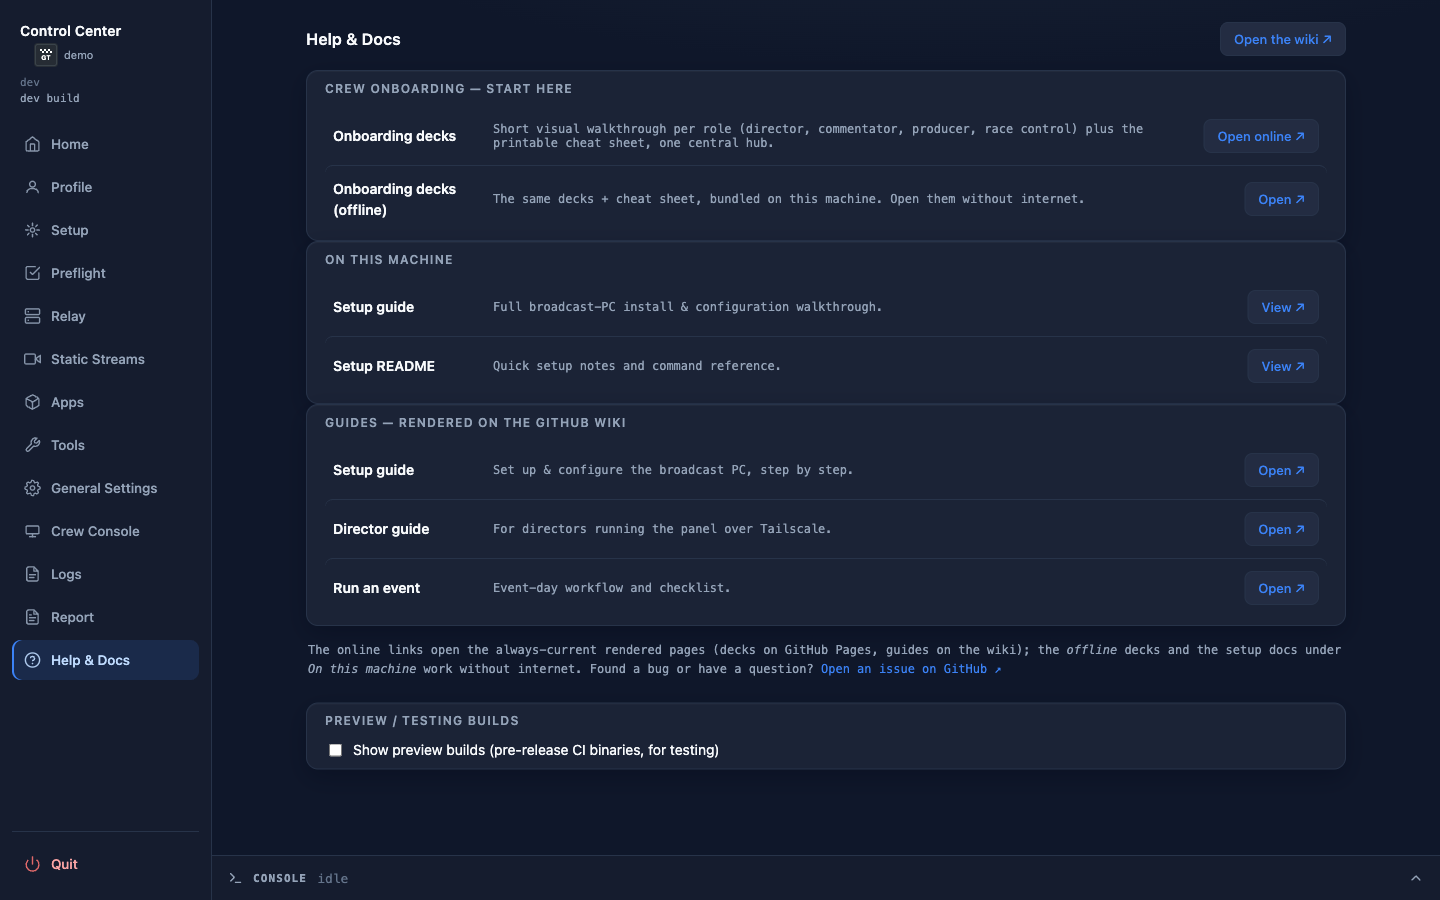
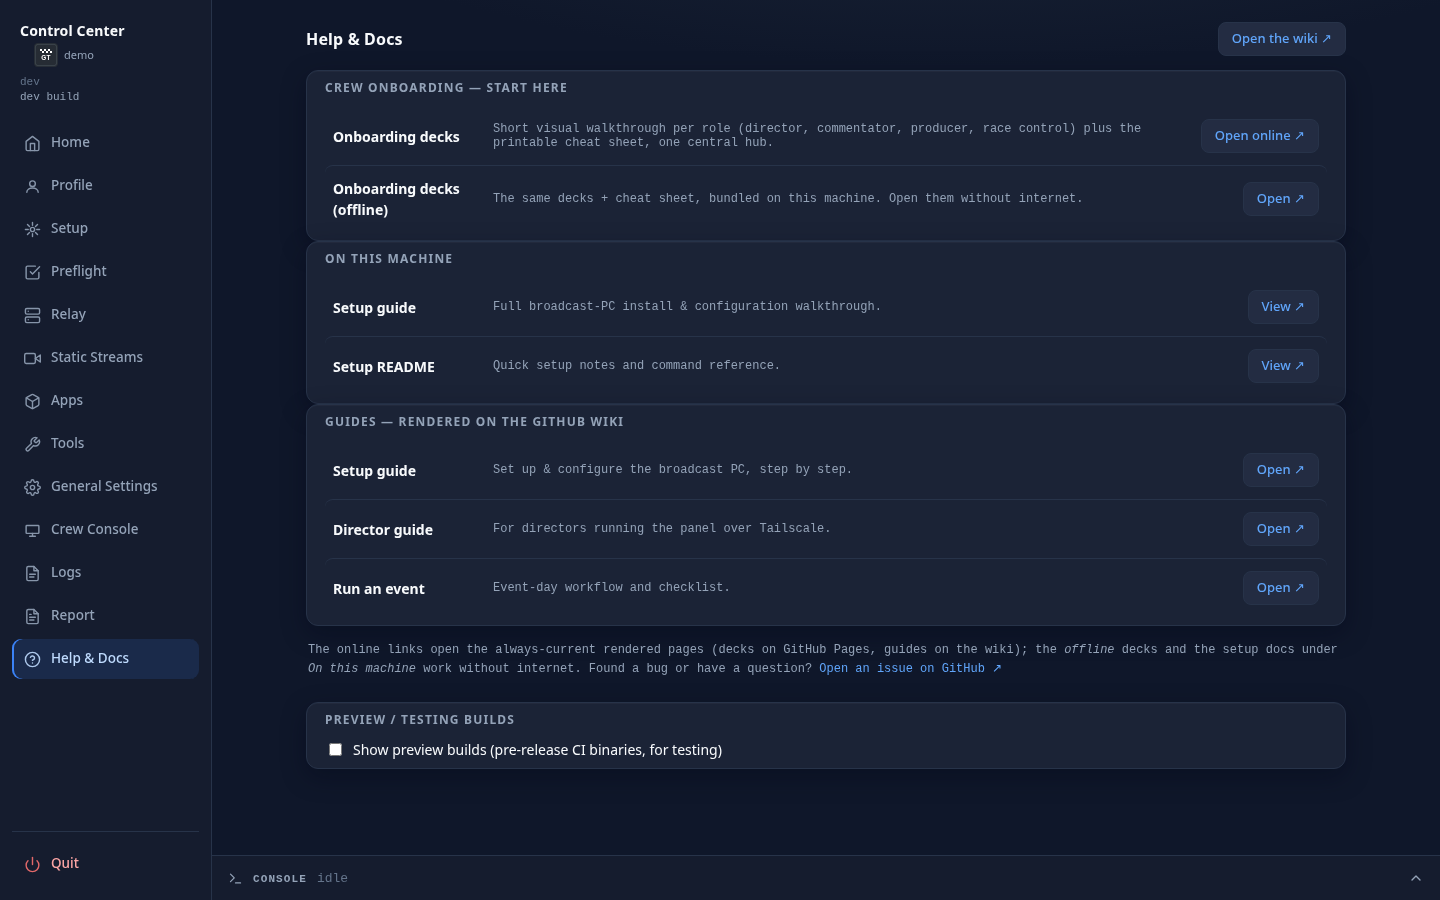
fix(ui): give Control Center link buttons AA text contrast (#776)
* fix(ui): give Control Center link buttons AA text contrast

Link buttons and inline links drew their text in the accent blue #3B82F6,
3.78:1 on the button surface and 4.26:1 on the card. A --link token
(#60A5FA) gives 5.47:1 on the button, 4.9:1 on its hover state and 6.16:1
on the card. The visual run's allowlist entry for these findings is gone.

Closes #773

* docs: refresh the Control Center Help screenshot

Refs #773

---------

diff --git a/src/ui/control-center.html b/src/ui/control-center.html
@@ -19,6 +19,8 @@
     --txt:#F8FAFC; --dim:#94A3B8; --faint:#64748B;
     --ok:#22C55E; --warn:#F59E0B; --bad:#EF4444; --off:#475569;
     --accent:#3B82F6; --nav:212px;
+    /* --accent as text misses WCAG AA on the card and button surfaces; links use this lighter blue. */
+    --link:#60A5FA;
     --mono: ui-monospace, "SF Mono", SFMono-Regular, Menlo, Consolas,
             "Liberation Mono", monospace;
   }
@@ -135,7 +137,7 @@
   button:disabled { opacity:.5; cursor:not-allowed; }
   button:focus-visible { outline:2px solid var(--accent); outline-offset:2px; }
   a.linkbtn { display:inline-flex; align-items:center; gap:6px; min-height:34px;
-           background:#232C42; color:var(--accent); border:1px solid var(--line);
+           background:#232C42; color:var(--link); border:1px solid var(--line);
            border-radius:8px; padding:6px 13px; font-size:13px; font-weight:500;
            text-decoration:none; transition:border-color .2s, background .2s; }
   a.linkbtn:hover { border-color:var(--accent); background:#283352; }
@@ -249,7 +251,7 @@
   .evnote { color:var(--dim); font:12px/1.6 var(--mono); margin:14px 2px 0; }
   /* Help & Docs */
   .docname { width:148px; font-weight:600; font-size:14px; flex:0 0 auto; }
-  .dlink { color:var(--accent); text-decoration:none; }
+  .dlink { color:var(--link); text-decoration:none; }
   .dlink:hover { text-decoration:underline; }
 
   /* Settings (.env) editor */
